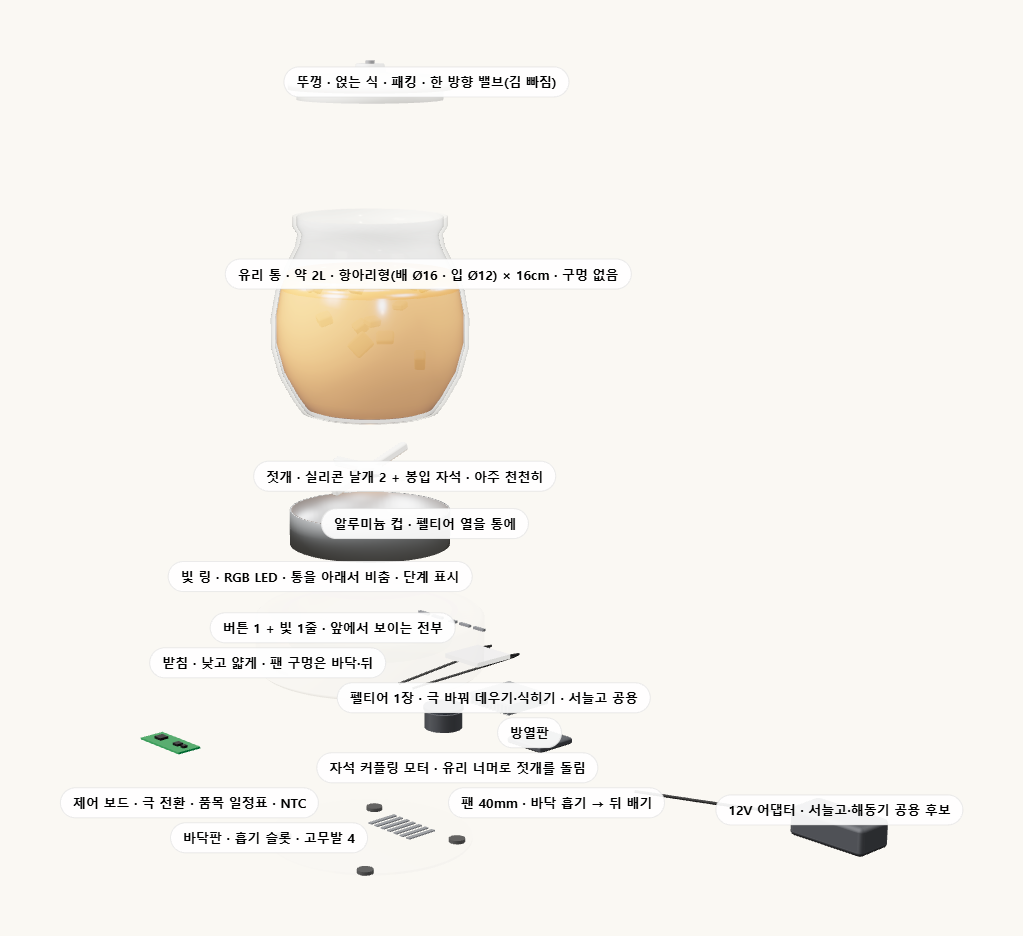
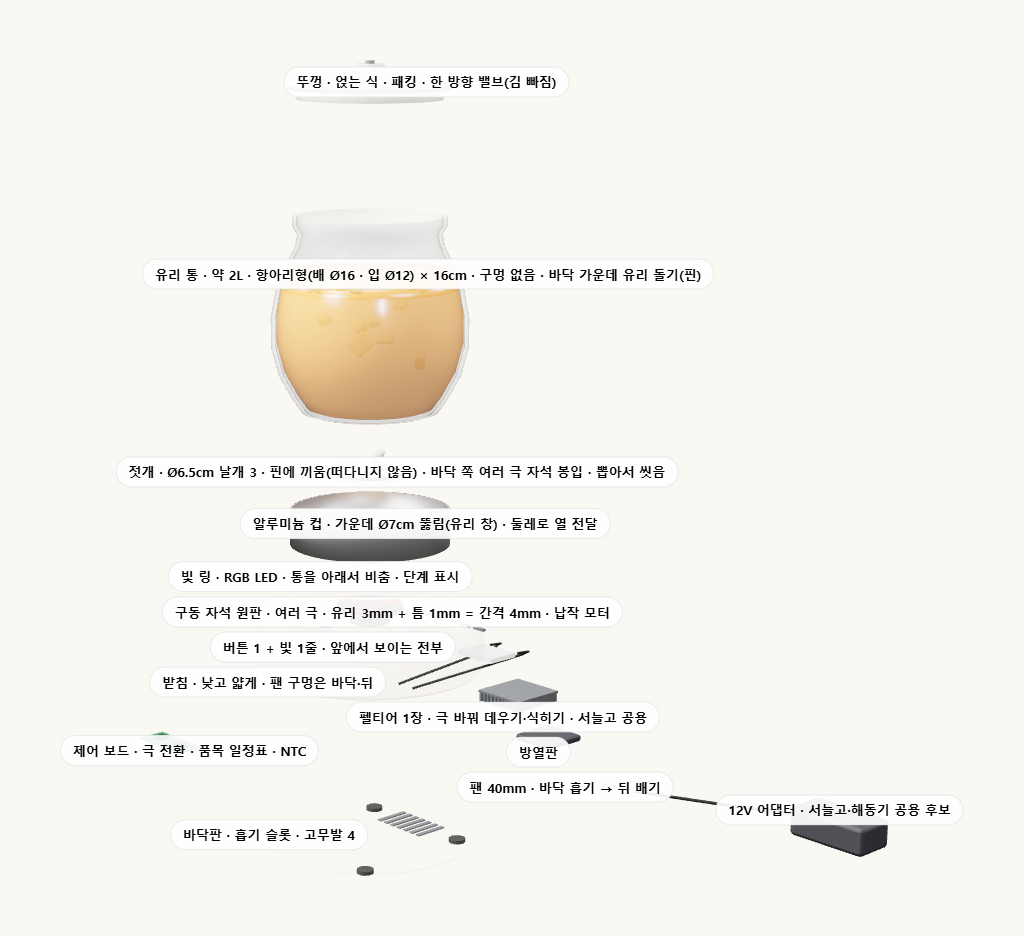
구조 3D 재작업(젓개 최종안): 컵 가운데 Ø7cm 뚫림(유리 창) · 유리 통 바닥 유리 돌기(핀) · 핀에 끼운 Ø6.5cm 날개 3 + 6극 자석 봉입 · 유리 창 아래 6극 구동 원판 + 납작 모터(간격 4mm) · 펠티어 컵 둘레 뒤 · 분해도 갱신 + 젓개·구동부 확대 컷 추가 · 캡처용 z/ly 파라미터

diff --git a/explode.js b/explode.js
@@ -3,7 +3,7 @@ import { RoundedBoxGeometry } from 'three/addons/geometries/RoundedBoxGeometry.j
 import { RoomEnvironment } from 'three/addons/environments/RoomEnvironment.js';
 
 // 휴롬 과일청 메이커(가칭) · 구조 3D v1 첫판 (2026-11-17, 두팔 msg_936ec2ba·msg_4b56059b 지시 · 준보 「무조건 이뻐야 한다」)
-//   유리 통(약 2L) + 바닥 자석 젓개 + 통 바깥(알루미늄 컵) 펠티어 + 뚜껑 한 방향 밸브. 받침은 낮고 얇게, 유리 통이 주인공. 받침 빛이 통을 아래서 비춤.
+//   유리 통(약 2L, 바닥 가운데 유리 돌기=핀) + 핀에 끼운 Ø6.5cm 날개 젓개(여러 극 희토류 자석 봉입) + 컵 가운데 Ø7cm 유리 창 아래 구동 자석 원판(간격 4mm) + 통 바깥(알루미늄 컵 둘레) 펠티어 + 뚜껑 한 방향 밸브. 받침은 낮고 얇게, 유리 통이 주인공. 받침 빛이 통을 아래서 비춤.
 //   시안 3개: A 항아리형 유리 + 흰 무광 받침 · B 원통 유리 + 연회색 세라믹 받침 · C 넓적한 낮은 유리 + 베이지 받침. 나무 안: 뚜껑 손잡이·받침 윗테.
 //   치수는 모두 가정(단위 10cm): A 받침 Ø20 × 6cm · 통 Ø16(배) × 16cm · 뚜껑 1.2cm.
 //   쿼리: ?p=0~1 진행도 · ?v=a|b|c 시안 · ?c=yuja|maesil|omija|strawberry 청 색 · ?wood 나무 안 · ?night 저녁 장면 고정 · ?day 낮 고정 · ?ang=<도> · ?cy= · ?noairg ?noadapter ?nofruit
@@ -70,6 +70,9 @@ const M = {
   vent: new THREE.MeshStandardMaterial({ color: 0x55575c, roughness: 0.7 }),
   rubber: new THREE.MeshStandardMaterial({ color: 0x2c2c2c, roughness: 0.9 }),
   magnet: new THREE.MeshStandardMaterial({ color: 0x4a4f58, metalness: 0.6, roughness: 0.4 }),
+  magnetS: new THREE.MeshStandardMaterial({ color: 0x9a3a3a, metalness: 0.55, roughness: 0.45 }),
+  pp: new THREE.MeshStandardMaterial({ color: 0xe9e9e4, roughness: 0.5 }),
+  siliconeT: new THREE.MeshPhysicalMaterial({ color: 0xf6f6f2, roughness: 0.55, transparent: true, opacity: 0.38, depthWrite: false }),
   air: new THREE.MeshBasicMaterial({ color: 0xf0a050, transparent: true, opacity: 0 }),
   counter: new THREE.MeshStandardMaterial({ color: 0x2b251e, roughness: 0.55, metalness: 0.05, transparent: true, opacity: 0 }),
 };
@@ -132,6 +135,8 @@ function build(vk) {
   parts.forEach(p => p.el.remove()); parts = []; spinners = []; woodMeshes = [];
   const BH = V.baseH, CUP_D = 0.26, CUP_Y = BH - CUP_D;    // 컵 바닥 높이
   const JH = V.jarH, JY = CUP_Y + 0.02;                     // 통 바닥 높이
+  const HR = 0.35, GT = 0.03, GAP = 0.01;                     // 컵 가운데 구멍 반지름(Ø7cm) · 유리 바닥 3mm · 틈 1mm → 자석 간격 4mm
+  const VR = 0.325, PINR = 0.045, PINH = 0.12;                // 날개 Ø6.5cm · 유리 돌기(핀)
   M.body.color.set(V.baseColor); M.body.roughness = V.baseRough; M.body.clearcoat = V.baseClear;
 
   /* 1. 받침 몸통 — 낮고 얇게. 앞에는 버튼 1 + 빛 1줄만. 팬 구멍은 바닥·뒤 */
@@ -153,13 +158,13 @@ function build(vk) {
   /* 2. 알루미늄 컵 — 통 바닥·아래 옆면에 닿아 펠티어 열을 전함 */
   {
     const g = new THREE.Group();
-    const cup = lathe([[0, CUP_Y - 0.02], [V.cupR, CUP_Y - 0.02], [V.cupR, BH + 0.005], [V.cupR - 0.02, BH + 0.005], [V.cupR - 0.02, CUP_Y], [0, CUP_Y]], M.alu, 72); g.add(cup);
-    part('알루미늄 컵 · 펠티어 열을 통에', g, [0, 0.85, 0], new THREE.Vector3(V.cupR, BH, 0), true);
+    const cup = lathe([[HR, CUP_Y - 0.02], [V.cupR, CUP_Y - 0.02], [V.cupR, BH + 0.005], [V.cupR - 0.02, BH + 0.005], [V.cupR - 0.02, CUP_Y], [HR, CUP_Y]], M.alu, 72); g.add(cup);
+    part('알루미늄 컵 · 가운데 Ø7cm 뚫림(유리 창) · 둘레로 열 전달', g, [0, 0.85, 0], new THREE.Vector3(V.cupR, BH, 0), true);
   }
   /* 3. 빛 링 — 컵 바닥의 RGB LED 링. 품목 색으로 통을 아래서 비추고, 숨쉬기·고정·깜빡임으로 단계를 알림 */
   {
     const g = new THREE.Group();
-    const ring = new THREE.Mesh(new THREE.RingGeometry(0.3, V.cupR - 0.06, 64), M.ledRing); ring.rotation.x = -Math.PI / 2; ring.position.y = CUP_Y + 0.006; g.add(ring);
+    const ring = new THREE.Mesh(new THREE.RingGeometry(HR + 0.03, V.cupR - 0.06, 64), M.ledRing); ring.rotation.x = -Math.PI / 2; ring.position.y = CUP_Y + 0.006; g.add(ring);
     part('빛 링 · RGB LED · 통을 아래서 비춤 · 단계 표시', g, [0, 0.5, 0], new THREE.Vector3(-0.4, CUP_Y, 0.2), true);
   }
   /* 4. 유리 통 + 청 + 과일 */
@@ -170,6 +175,7 @@ function build(vk) {
     const innerP = inset(prof, 0.035); innerP[0] = [0, 0.035];
     const innerM = lathe(innerP, M.glass, 96); innerM.material = M.glass;
     g.add(outer, innerM);
+    const pin = new THREE.Mesh(new THREE.CylinderGeometry(PINR, PINR + 0.015, PINH, 24), M.glass); pin.position.y = GT + PINH / 2; g.add(pin);   // 유리 성형 돌기 — 젓개를 끼우는 핀
     // 눈금 2줄(과일 · 설탕) — 가는 띠
     const fillY = JH * (V.jar === 'wide' ? 0.66 : 0.7);
     const syrup = lathe(syrupProfile(prof, fillY), M.syrup, 96); g.add(syrup);
@@ -184,17 +190,18 @@ function build(vk) {
       f.position.set(Math.cos(a) * rr, y + 0.03, Math.sin(a) * rr); f.rotation.set(rnd(), rnd() * 3, rnd()); fruitG.add(f);
     }
     g.position.y = JY;
-    part(`유리 통 · 약 2L · ${V.jar === 'onggi' ? '항아리형(배 Ø16 · 입 Ø12)' : V.jar === 'cyl' ? '원통 Ø14' : '넓적 Ø18'} × ${Math.round(JH * 10)}cm · 구멍 없음`, g, [0, 1.9, 0], new THREE.Vector3(V.mouthR + 0.1, JH * 0.75, 0));
+    part(`유리 통 · 약 2L · ${V.jar === 'onggi' ? '항아리형(배 Ø16 · 입 Ø12)' : V.jar === 'cyl' ? '원통 Ø14' : '넓적 Ø18'} × ${Math.round(JH * 10)}cm · 구멍 없음 · 바닥 가운데 유리 돌기(핀)`, g, [0, 1.9, 0], new THREE.Vector3(V.mouthR + 0.1, JH * 0.75, 0));
   }
-  /* 5. 젓개 — 실리콘 날개 2 + 봉입 자석 · 통 바닥 받침에 얹음 · 아주 천천히 */
+  /* 5. 젓개 — Ø6.5cm 날개 3 · 통 바닥 유리 돌기(핀)에 끼워 제자리에서만 돎 · 바닥 쪽에 여러 극 희토류 자석 원판을 PP로 막고 실리콘으로 덮음 */
   {
     const g = new THREE.Group();
-    const hub = new THREE.Mesh(new THREE.CylinderGeometry(0.1, 0.11, 0.07, 24), M.silicone); hub.position.y = 0.035; g.add(hub);
-    const mag = new THREE.Mesh(new THREE.CylinderGeometry(0.14, 0.14, 0.02, 24), M.magnet); mag.position.y = 0.012; g.add(mag);
-    const bw = (V.jar === 'wide' ? 0.62 : 0.42);
-    [0, Math.PI / 2].forEach(a => { const b = new THREE.Mesh(new RoundedBoxGeometry(bw * 2, 0.07, 0.07, 2, 0.02), M.silicone); b.position.y = 0.045; b.rotation.y = a; b.rotation.x = 0.35; g.add(b); });
-    g.position.y = JY + 0.04; g.userData.slow = true; spinners.push(g);
-    part('젓개 · 실리콘 날개 2 + 봉입 자석 · 아주 천천히', g, [0, 1.35, 0], new THREE.Vector3(bw, 0.05, 0));
+    const body = lathe([[PINR + 0.012, 0], [VR, 0], [VR, 0.06], [VR - 0.03, 0.08], [PINR + 0.07, 0.08], [PINR + 0.05, 0.15], [PINR + 0.012, 0.15]], M.siliconeT, 64); g.add(body);   // 실리콘 겉몸(반투명으로 그림) + 핀 구멍
+    for (let i = 0; i < 6; i++) { const seg = new THREE.Mesh(new THREE.CylinderGeometry(VR - 0.045, VR - 0.045, 0.028, 48, 1, false, i * Math.PI / 3, Math.PI / 3), i % 2 ? M.magnetS : M.magnet); seg.position.y = 0.026; g.add(seg); }   // 6극 자석 원판(N·S 번갈아) — 유리 바닥에 가장 가깝게
+    const ppCap = new THREE.Mesh(new THREE.CylinderGeometry(VR - 0.04, VR - 0.04, 0.012, 48), M.pp); ppCap.position.y = 0.047; g.add(ppCap);   // PP 봉입 덮개
+    const ppIn = new THREE.Mesh(new THREE.CylinderGeometry(PINR + 0.06, PINR + 0.06, 0.03, 32), M.pp); ppIn.position.y = 0.026; g.add(ppIn);
+    for (let i = 0; i < 3; i++) { const h = new THREE.Group(); h.rotation.y = i * Math.PI * 2 / 3; const b = new THREE.Mesh(new RoundedBoxGeometry(VR - PINR - 0.06, 0.09, 0.06, 2, 0.02), M.silicone); b.position.set((VR + PINR) / 2 + 0.01, 0.12, 0); b.rotation.x = 0.4; h.add(b); g.add(h); }   // 날개 3 · 끝 둥글게
+    g.position.y = JY + GT; g.userData.slow = true; spinners.push(g);
+    part('젓개 · Ø6.5cm 날개 3 · 핀에 끼움(떠다니지 않음) · 바닥 쪽 여러 극 자석 봉입 · 뽑아서 씻음', g, [0, 1.35, 0], new THREE.Vector3(VR, 0.08, 0));
   }
   /* 6. 뚜껑 — 얹어 누르는 식 · 가운데 한 방향 밸브 · 손잡이(나무 안) */
   {
@@ -207,18 +214,23 @@ function build(vk) {
     g.position.y = JY + JH;
     part(`뚜껑 · 얹는 식 · 패킹 · 한 방향 밸브(김 빠짐)${wood ? ' · 나무 손잡이' : ''}`, g, [0, 2.9, 0], new THREE.Vector3(r, 0.08, 0));
   }
-  /* 7. 자석 커플링 모터 — 컵 바닥 가운데 아래 · 기어드 DC · 아주 느림 */
+  /* 7. 구동 자석 원판 + 납작 모터 — 컵 가운데 유리 창 아래 · 유리 3mm + 틈 1mm = 자석 간격 4mm · 아주 느림 · 걸리면 역회전 */
   {
     const g = new THREE.Group();
-    const mot = new THREE.Mesh(new THREE.CylinderGeometry(0.15, 0.15, CUP_Y - 0.1, 28), M.dark); mot.position.y = (CUP_Y - 0.1) / 2 + 0.04; g.add(mot);
-    const disc = new THREE.Mesh(new THREE.CylinderGeometry(0.16, 0.16, 0.025, 28), M.magnet); disc.position.y = CUP_Y - 0.035; g.add(disc); disc.userData.slow = true; spinners.push(disc);
-    part('자석 커플링 모터 · 유리 너머로 젓개를 돌림', g, [1.2, -0.2, 0.3], new THREE.Vector3(0.16, CUP_Y * 0.5, 0), true);
+    const DT = 0.03, dy = JY - GAP - DT / 2;
+    const disc = new THREE.Group(); disc.position.y = dy;
+    for (let i = 0; i < 6; i++) { const seg = new THREE.Mesh(new THREE.CylinderGeometry(VR - 0.05, VR - 0.05, DT, 48, 1, false, i * Math.PI / 3, Math.PI / 3), i % 2 ? M.magnet : M.magnetS); disc.add(seg); }
+    const yoke = new THREE.Mesh(new THREE.CylinderGeometry(VR - 0.04, VR - 0.04, 0.012, 48), M.heatsink); yoke.position.y = -DT / 2 - 0.006; disc.add(yoke);   // 철 백요크
+    disc.userData.slow = true; spinners.push(disc); g.add(disc);
+    const mh = Math.max(0.08, dy - DT / 2 - 0.012 - 0.1);
+    const mot = new THREE.Mesh(new THREE.CylinderGeometry(0.17, 0.17, mh, 28), M.dark); mot.position.y = dy - DT / 2 - 0.012 - mh / 2; g.add(mot);   // 납작 기어드 모터(또는 코일판)
+    part('구동 자석 원판 · 여러 극 · 유리 3mm + 틈 1mm = 간격 4mm · 납작 모터', g, [0, 0.3, 0], new THREE.Vector3(VR - 0.05, dy, 0), true);
   }
   /* 8. 펠티어 — 컵 바닥 뒤쪽에 1장 · 극 전환으로 데우기/식히기 (서늘고·해동기 공용) */
-  const PZ = -(V.cupR * 0.55);
+  const PZ = -(V.cupR * 0.72);   // 컵 가운데 Ø7cm는 뚫려 있어 펠티어는 둘레(뒤쪽)에
   {
     const g = new THREE.Group();
-    const tec = new THREE.Mesh(new THREE.BoxGeometry(0.4, 0.04, 0.4), M.peltier); tec.position.set(0, CUP_Y - 0.045, PZ); g.add(tec);
+    const tec = new THREE.Mesh(new THREE.BoxGeometry(0.4, 0.04, 0.3), M.peltier); tec.position.set(0, CUP_Y - 0.045, PZ); g.add(tec);
     [[-0.17], [0.17]].forEach(([x]) => { const w = tube([new THREE.Vector3(x, CUP_Y - 0.045, PZ - 0.2), new THREE.Vector3(x, CUP_Y - 0.06, PZ - 0.35), new THREE.Vector3(x * 0.5, 0.1, 0.5)], 0.01, M.wireB, 20); g.add(w); });
     part('펠티어 1장 · 극 바꿔 데우기·식히기 · 서늘고 공용', g, [0, -0.35, -0.9], new THREE.Vector3(0.2, CUP_Y - 0.045, PZ), true);
   }
@@ -309,6 +321,8 @@ product.position.y = -0.9; ground.position.y = -0.9 - 0.001; counter.position.y 
 
 /* ---------- 스크롤 ---------- */
 const CY = +(Q.get('cy') || 0);
+const ZM = +(Q.get('z') || 1);            // 카메라 거리 배율(확대 캡처용)
+const LY = +(Q.get('ly') || 0);           // 바라보는 점 높이 보정
 const ANG = Q.has('ang') ? +Q.get('ang') * Math.PI / 180 : null;
 const NIGHT = Q.has('night') ? 1 : Q.has('day') ? 0 : null;
 const forced = Q.get('p');
@@ -362,11 +376,11 @@ function frame(now) {
     : p < 0.76 ? XA + (XB - XA) * ((p - 0.58) / 0.18)
     : p < 0.95 ? XB + (FRONT - XB) * ease((p - 0.76) / 0.19) : FRONT;
   const H = V.baseH + V.jarH + 0.2;
-  const dist = 7.4 + H * 1.1 + e * 8.8;
+  const dist = (7.4 + H * 1.1 + e * 8.8) * ZM;
   const camY = (1.6 - 0.5 * nt) + (p < 0.22 ? 0 : p < 0.4 ? 1.8 * ease((p - 0.22) / 0.18) : 1.8);
   const angF = ANG === null ? ang : ANG;
   camera.position.set(Math.sin(angF) * dist, camY + CY + e * 1.4, Math.cos(angF) * dist);
-  camera.lookAt(0, H * 0.42 - 0.9 + e * 0.5, 0);
+  camera.lookAt(0, H * 0.42 - 0.9 + e * 0.5 + LY, 0);
 
   spinners.forEach(o => { if (o.userData.spin) o.rotation.y += dt * (2 + 10 * ghost) * (1 - e); if (o.userData.slow) o.rotation.y += dt * 0.5 * (1 - e); });
   const airOn = (p < 0.08 || p > 0.96) ? 0 : (ghost > 0.3 && e < 0.4) ? 0.85 * (1 - e / 0.4) : 0;

diff --git a/index.html b/index.html
@@ -294,8 +294,8 @@ footer{padding:56px 0 72px;font-size:13px;color:var(--sub);border-top:1px solid 
     <div class="xv-text">
       <div class="xv-step on"><div class="kicker">구조 · 저녁 앞모습 (시안 A · 가정 Ø19 × 23cm)</div><h2>받침 빛이 청을 비춥니다.</h2><p>낮은 흰 받침(높이 5cm) 안에 알루미늄 컵이 있고, 거기에 항아리형 유리 통이 앉습니다. 통 둘레 빛 테와 컵 바닥 LED 링이 품목 색으로 통을 아래에서 비춥니다. 아래 단추로 시안·청 색·나무 안을 바꿉니다. 스크롤을 내리면 날이 밝고 부품별로 분해됩니다.</p></div>
       <div class="xv-step"><div class="kicker">구조 · 뒷모습</div><h2>열과 선은 뒤로.</h2><p>뒷면 슬롯으로 바람이 나갑니다 — 숙성 때는 펠티어 더운 면의 열, 녹이기 때는 찬 면의 냉기. 바람은 바닥판 슬롯으로 들어와 방열판을 지나 뒤로 나갑니다. 어댑터 선도 뒤 아래로. 앞에서는 아무것도 안 보입니다.</p></div>
-      <div class="xv-step"><div class="kicker">구조 · 속</div><h2>가운데는 자석, 뒤쪽은 펠티어.</h2><p>컵 바닥 가운데 아래의 구동 자석이 유리를 사이에 두고 바닥 핀에 끼운 날개형 젓개를 돌립니다. 통에 구멍이 없고, 젓개는 제자리에서만 돕니다. 컵 바닥 뒤쪽의 펠티어 1장이 극을 바꿔 컵을 데우거나 식히고, 컵이 통 바닥과 아래 옆면에 열을 전합니다. 주황색 선은 바람길입니다.</p></div>
-      <div class="xv-step"><div class="kicker">구조 · 분해</div><h2>부품 14개, 씻는 것은 셋.</h2><p>뚜껑 · 유리 통 · 젓개를 들어서 빼 씻습니다(통·젓개는 식기세척기). 컵·빛 링·펠티어·방열판·팬·모터·보드·바닥판은 받침에 남습니다. 센서는 NTC(컵) + 통 감지 자석 스위치. 전원은 12V 외장 어댑터(서늘고·해동기 공용 후보).</p></div>
+      <div class="xv-step"><div class="kicker">구조 · 속</div><h2>가운데는 자석, 뒤쪽은 펠티어.</h2><p>알루미늄 컵 가운데 Ø7cm는 뚫려 있어 유리 바닥(약 3mm)만 남고, 그 바로 아래 여러 극 자석 원판이 간격 4mm로 유리 너머 젓개를 돌립니다. 젓개는 통 바닥의 유리 돌기(핀)에 끼워져 제자리에서만 돌고, 통에 구멍이 없습니다. 컵 둘레 뒤쪽의 펠티어 1장이 극을 바꿔 컵을 데우거나 식히고, 컵이 통 바닥 둘레와 아래 옆면에 열을 전합니다. 주황색 선은 바람길입니다.</p></div>
+      <div class="xv-step"><div class="kicker">구조 · 분해</div><h2>부품 14개, 씻는 것은 셋.</h2><p>뚜껑 · 유리 통 · 젓개를 들어서 빼 씻습니다(통·젓개는 식기세척기). 컵·빛 링·펠티어·방열판·팬·구동 자석 원판과 모터·보드·바닥판은 받침에 남습니다. 센서는 NTC(컵) + 통 감지 자석 스위치. 전원은 12V 외장 어댑터(서늘고·해동기 공용 후보).</p></div>
     </div>
     <div class="xv-stage"><canvas id="xv-canvas" aria-label="과일청 메이커 3D · 시안 · 청 색 · 분해도"></canvas><div id="xv-labels"></div>
       <div class="xv-colors" role="group" aria-label="시안과 청 색">
@@ -319,7 +319,8 @@ footer{padding:56px 0 72px;font-size:13px;color:var(--sub);border-top:1px solid 
       </div>
       <div class="led"><span><i style="background:#f29a2e"></i>받침 빛 · 품목 색(유자 주황 · 매실 초록 · 오미자 빨강 · 딸기 분홍)</span><span><i style="background:#f0a050"></i>숨쉬기 · 녹이는 중</span><span><i style="background:#6aa8e8"></i>고정 · 다 녹음 · 옮길 때까지 서늘</span><span><i style="background:#3cab6e"></i>세 번 깜빡 + 알림음 · 완료</span><span><i style="background:#999"></i>빠른 깜빡임 · 통 없음 · 젓개 걸림 · 과열</span></div>
     </div>
-    <div class="photo rv"><img src="img/explode.png" alt="과일청 메이커 분해도 · 뚜껑 · 유리 통 · 젓개 · 알루미늄 컵 · 빛 링 · 펠티어 · 방열판 · 팬 · 모터 · 보드 · 바닥판"><p class="note" style="margin:8px 4px 0">구조 3D · 분해도(시안 A) — 뚜껑(밸브) · 유리 통 2L · 자석 젓개 · 알루미늄 컵 · 빛 링 · 펠티어 · 방열판 · 팬 · 자석 커플링 모터 · 제어 보드 · 버튼 · 바닥판 · 어댑터 · 부품 14개</p></div>
+    <div class="photo rv"><img src="img/stirrer.png" alt="과일청 메이커 젓개·구동부 확대 · 유리 돌기(핀)에 끼운 Ø6.5cm 날개 젓개 · 바닥 쪽 여러 극 자석 · 가운데 Ø7cm 뚫린 알루미늄 컵 · 유리 창 아래 구동 자석 원판과 납작 모터"><p class="note" style="margin:8px 4px 0">젓개·구동부(반쯤 분해) — 유리 통 바닥 가운데 유리 돌기(핀) · 핀에 끼운 Ø6.5cm 날개 3 · 바닥 쪽 여러 극 자석 원판(PP로 막고 실리콘으로 덮음) · 가운데 Ø7cm가 뚫린 알루미늄 컵 · 그 아래 구동 자석 원판 + 납작 모터(유리 3mm + 틈 1mm = 간격 4mm) · 펠티어·방열판·팬은 뒤쪽</p></div>
+    <div class="photo rv"><img src="img/explode.png" alt="과일청 메이커 분해도 · 뚜껑 · 유리 통(바닥 핀) · 핀 고정 젓개 · 가운데 뚫린 알루미늄 컵 · 빛 링 · 펠티어 · 방열판 · 팬 · 구동 자석 원판과 모터 · 보드 · 바닥판"><p class="note" style="margin:8px 4px 0">구조 3D · 분해도(시안 A) — 뚜껑(밸브) · 유리 통 2L(바닥 가운데 유리 돌기=핀) · 핀에 끼운 Ø6.5cm 젓개(여러 극 자석 봉입) · 가운데 Ø7cm 뚫린 알루미늄 컵 · 빛 링 · 펠티어 · 방열판 · 팬 · 구동 자석 원판 + 납작 모터(간격 4mm) · 제어 보드 · 버튼 · 바닥판 · 어댑터 · 부품 14개</p></div>
   </div>
 </section>
 
